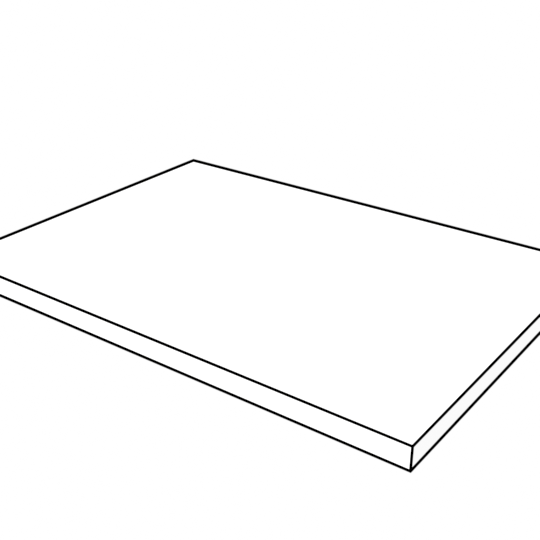
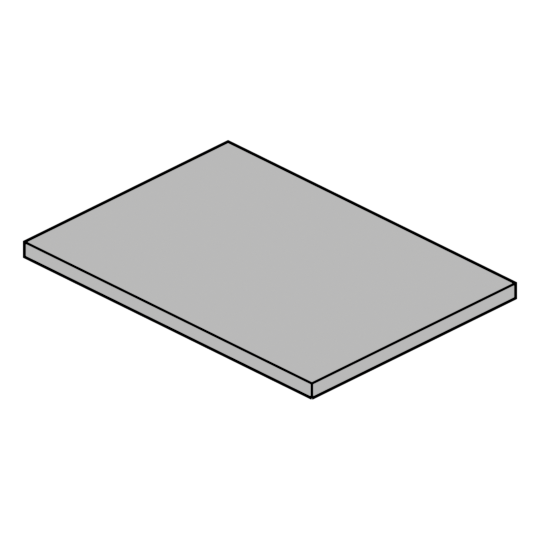
Wood Top library thumbnail rendered through the catalog pipeline
The shipped PNG had an opaque white background - it was produced
outside the batch thumbnail renderer, which always renders with a
transparent film. Wood Top is now in the renderable catalog list and
its thumbnail is re-rendered through the standard pipeline
(transparent background, flat fill, Freestyle outline) so it matches
the rest of the library.

diff --git a/product_libraries/face_frame/operators/ops_thumbnails.py b/product_libraries/face_frame/operators/ops_thumbnails.py
@@ -67,8 +67,10 @@ RENDERABLE_CATALOG = (
     "6 Drawer Dresser",
     "Night Stand",
     "3 Drawer Night Stand",
-    # Bare parts (no cage): a lone cutpart, and a door front + pull.
+    # Bare parts (no cage): a lone cutpart, a countertop slab, and a
+    # door front + pull.
     "Misc Part",
+    "Wood Top",
     "Door",
     # Misc products. Half Wall / Support Frame reuse the frameless
     # geometry (no bay preset applies; default_bay_config returns None).
